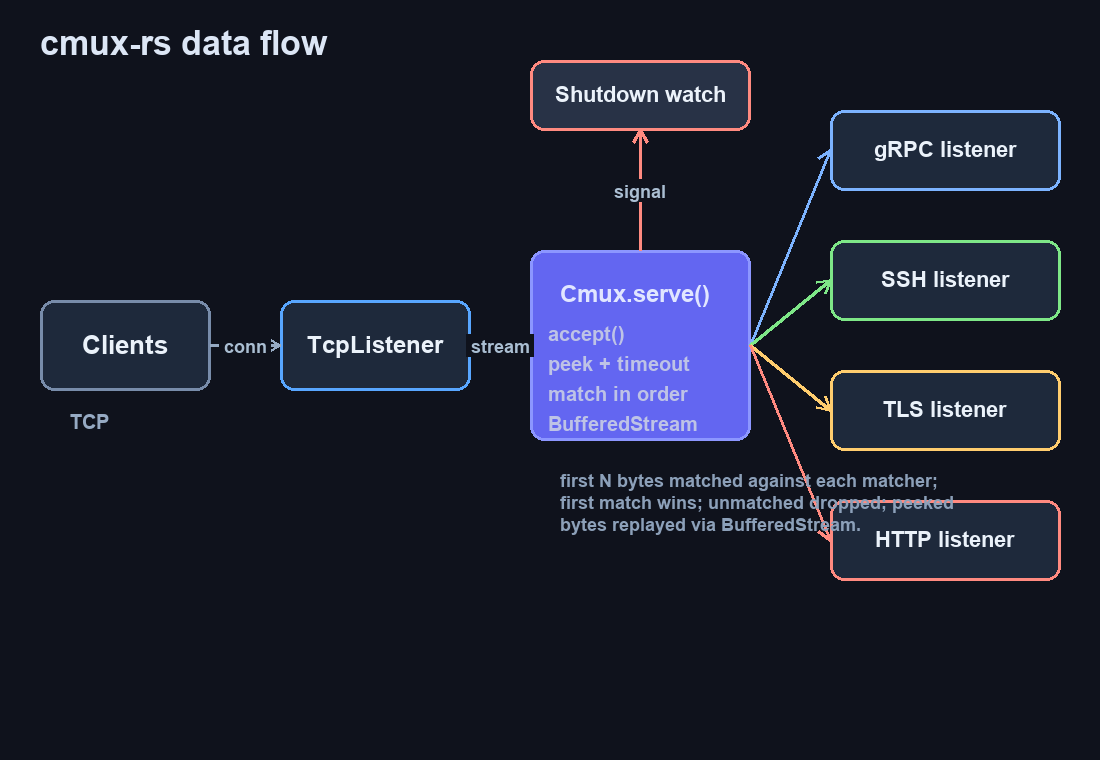
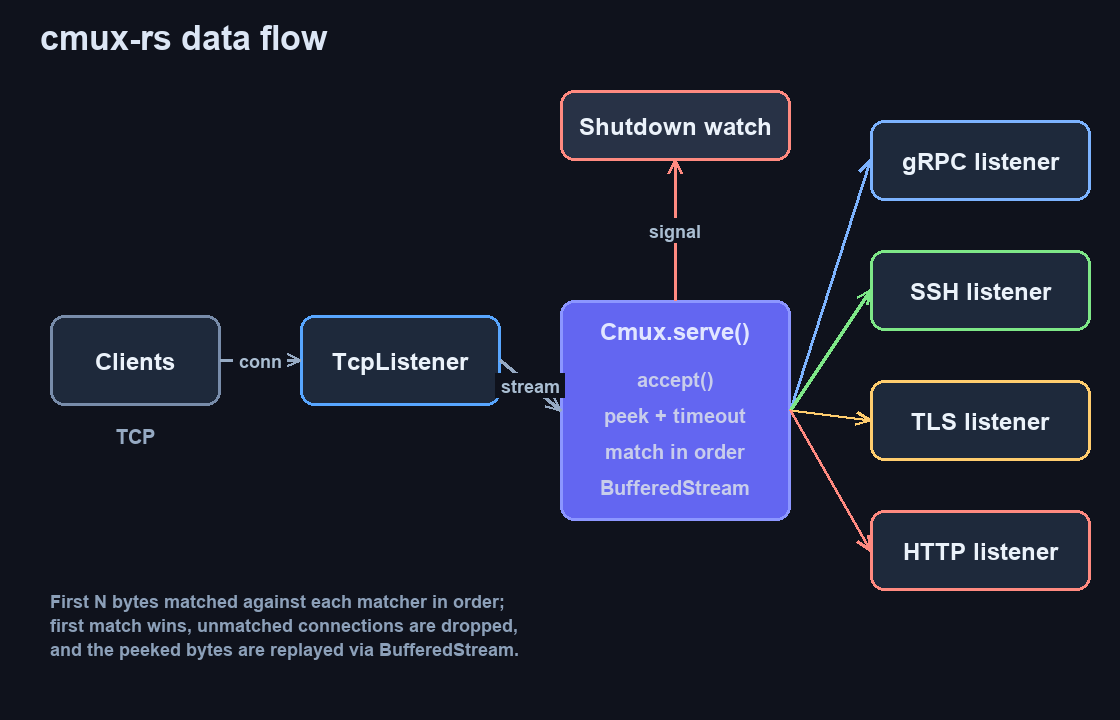
Tweak architecture diagram: cleaner layout, aligned columns, consistent labels (#4)

diff --git a/gen_arch.py b/gen_arch.py
@@ -1,8 +1,11 @@
 from PIL import Image, ImageDraw, ImageFont
+import math
 
-W, H = 1100, 760
-img = Image.new("RGBA", (W, H), (15, 18, 28, 255))
+W, H = 1120, 720
+BG = (15, 18, 28, 255)
+img = Image.new("RGBA", (W, H), BG)
 d = ImageDraw.Draw(img)
+
 
 def font(size, bold=True):
     for c in ["C:/Windows/Fonts/arialbd.ttf", "C:/Windows/Fonts/arial.ttf",
@@ -13,32 +16,37 @@ def font(size, bold=True):
             continue
     return ImageFont.load_default()
 
-def box(x, y, w, h, fill, outline, label, lcolor=(235, 242, 250), lsize=26, lbold=True):
-    d.rounded_rectangle([x, y, x + w, y + h], radius=14, fill=fill, outline=outline, width=3)
-    f = font(lsize, lbold)
-    tw = d.textlength(label, font=f)
-    d.text((x + (w - tw) / 2, y + (h - lsize) / 2 - 2), label, font=f, fill=lcolor)
 
-def arrow(x1, y1, x2, y2, color=(150, 170, 195), width=3, label=None, lsize=20):
+def text(s, x, y, f, fill, anchor="mm"):
+    w = d.textlength(s, font=f)
+    dx = {"mm": -w / 2, "lm": 0, "rm": -w}[anchor]
+    d.text((x + dx, y - f.size / 2), s, font=f, fill=fill)
+
+
+def box(x, y, w, h, fill, outline, label, lcolor=(235, 242, 250), lsize=24):
+    d.rounded_rectangle([x, y, x + w, y + h], radius=14, fill=fill,
+                        outline=outline, width=3)
+    text(label, x + w / 2, y + h / 2, font(lsize, True), lcolor)
+
+
+def arrow(x1, y1, x2, y2, color=(150, 170, 195), width=3, label=None, lsize=18):
     d.line([x1, y1, x2, y2], fill=color, width=width)
-    # arrowhead
-    import math
     ang = math.atan2(y2 - y1, x2 - x1)
-    for da in (math.radians(150), math.radians(210)):
-        ax = x2 + 14 * math.cos(ang + da)
-        ay = y2 + 14 * math.sin(ang + da)
+    for da in (math.radians(155), math.radians(205)):
+        ax = x2 + 15 * math.cos(ang + da)
+        ay = y2 + 15 * math.sin(ang + da)
         d.line([x2, y2, ax, ay], fill=color, width=width)
     if label:
         f = font(lsize)
-        tw = d.textlength(label, font=f)
+        w = d.textlength(label, font=f)
         mx, my = (x1 + x2) / 2, (y1 + y2) / 2
-        d.rectangle([mx - tw / 2 - 4, my - lsize / 2 - 2, mx + tw / 2 + 4, my + lsize / 2 + 2],
+        d.rectangle([mx - w / 2 - 5, my - lsize / 2 - 3, mx + w / 2 + 5, my + lsize / 2 + 3],
                     fill=(15, 18, 28, 255))
-        d.text((mx - tw / 2, my - lsize / 2), label, font=f, fill=(170, 190, 210))
+        text(label, mx, my, f, (170, 190, 210))
+
 
 BOX = (30, 41, 59, 255)
 OUT = (88, 166, 255, 255)
-PORT = (88, 166, 255, 255)
 MATCH = (99, 102, 241, 255)
 PROTO = [
     ("gRPC listener", (124, 179, 255)),
@@ -48,45 +56,55 @@ PROTO = [
 ]
 
 # Title
-tf = font(34, True)
-d.text((40, 24), "cmux-rs data flow", font=tf, fill=(220, 230, 245, 255))
+text("cmux-rs data flow", 40, 36, font(34, True), (220, 230, 245), anchor="lm")
 
-# External clients (left)
-box(40, 300, 170, 90, BOX, (120, 140, 170), "Clients", lsize=26)
-d.text((70, 410), "TCP", font=font(20), fill=(150, 170, 195))
+# Column x positions
+CLIENT_X, LISTEN_X, MUX_X = 50, 300, 560
+BW_CLIENT, BW_LISTEN, BW_MUX = 170, 200, 230
+
+# Clients
+cy = 360
+box(CLIENT_X, cy - 45, BW_CLIENT, 90, BOX, (120, 140, 170), "Clients")
+text("TCP", CLIENT_X + BW_CLIENT / 2, cy + 75, font(20), (150, 170, 195))
 
 # TcpListener
-box(280, 300, 190, 90, BOX, OUT, "TcpListener", lsize=24)
+box(LISTEN_X, cy - 45, BW_LISTEN, 90, BOX, OUT, "TcpListener")
 
-# Cmux serve core
-box(530, 250, 220, 190, MATCH, (140, 150, 255), "", lsize=24)
-d.text((560, 280), "Cmux.serve()", font=font(24, True), fill=(225, 230, 255))
-d.text((548, 322), "accept()", font=font(20), fill=(190, 195, 230))
-d.text((548, 352), "peek + timeout", font=font(20), fill=(190, 195, 230))
-d.text((548, 382), "match in order", font=font(20), fill=(190, 195, 230))
-d.text((548, 412), "BufferedStream", font=font(20), fill=(190, 195, 230))
+# Cmux core
+mux_y = 300
+box(MUX_X, mux_y, BW_MUX, 220, MATCH, (140, 150, 255), "")
+text("Cmux.serve()", MUX_X + BW_MUX / 2, mux_y + 30, font(24, True), (225, 230, 255))
+for i, step in enumerate(["accept()", "peek + timeout", "match in order", "BufferedStream"]):
+    text(step, MUX_X + BW_MUX / 2, mux_y + 78 + i * 36, font(20), (200, 205, 235))
 
 # Shutdown watch (top)
-box(530, 60, 220, 70, (40, 50, 70, 255), (255, 138, 128), "Shutdown watch", lsize=22)
-arrow(640, 250, 640, 130, color=(255, 138, 128), label="signal", lsize=18)
+box(MUX_X, 90, BW_MUX, 70, (40, 50, 70, 255), (255, 138, 128), "Shutdown watch")
+arrow(MUX_X + BW_MUX / 2, mux_y, MUX_X + BW_MUX / 2, 160,
+      color=(255, 138, 128), label="signal", lsize=18)
 
-# proto listeners (right column)
-ly = 110
+# Proto listeners
+PROT_X = 870
+BW_PROT = 220
+gap = 130
 for i, (label, color) in enumerate(PROTO):
-    y = ly + i * 130
-    box(830, y, 230, 80, BOX, color, label, lsize=22)
-    # arrow from core to listener
-    arrow(750, 345, 830, y + 40, color=color, width=3)
+    y = 120 + i * gap
+    box(PROT_X, y, BW_PROT, 80, BOX, color, label)
+    # arrow from mux right edge to listener left edge, centered on listener
+    arrow(MUX_X + BW_MUX, mux_y + 110, PROT_X, y + 40, color=color, width=3)
 
 # connecting arrows
-arrow(210, 345, 280, 345, label="conn", lsize=18)
-arrow(470, 345, 530, 345, label="stream", lsize=18)
+arrow(CLIENT_X + BW_CLIENT, cy, LISTEN_X, cy, label="conn", lsize=18)
+arrow(LISTEN_X + BW_LISTEN, cy, MUX_X, mux_y + 110, label="stream", lsize=18)
 
 # Peek detail note
 nf = font(18)
-d.text((560, 470), "first N bytes matched against each matcher;", font=nf, fill=(140, 160, 185))
-d.text((560, 492), "first match wins; unmatched dropped; peeked", font=nf, fill=(140, 160, 185))
-d.text((560, 514), "bytes replayed via BufferedStream.", font=nf, fill=(140, 160, 185))
+note = [
+    "First N bytes matched against each matcher in order;",
+    "first match wins, unmatched connections are dropped,",
+    "and the peeked bytes are replayed via BufferedStream.",
+]
+for i, line in enumerate(note):
+    text(line, 50, 600 + i * 24, nf, (140, 160, 185), anchor="lm")
 
 img.save("assets/architecture.png")
 print("architecture written")
